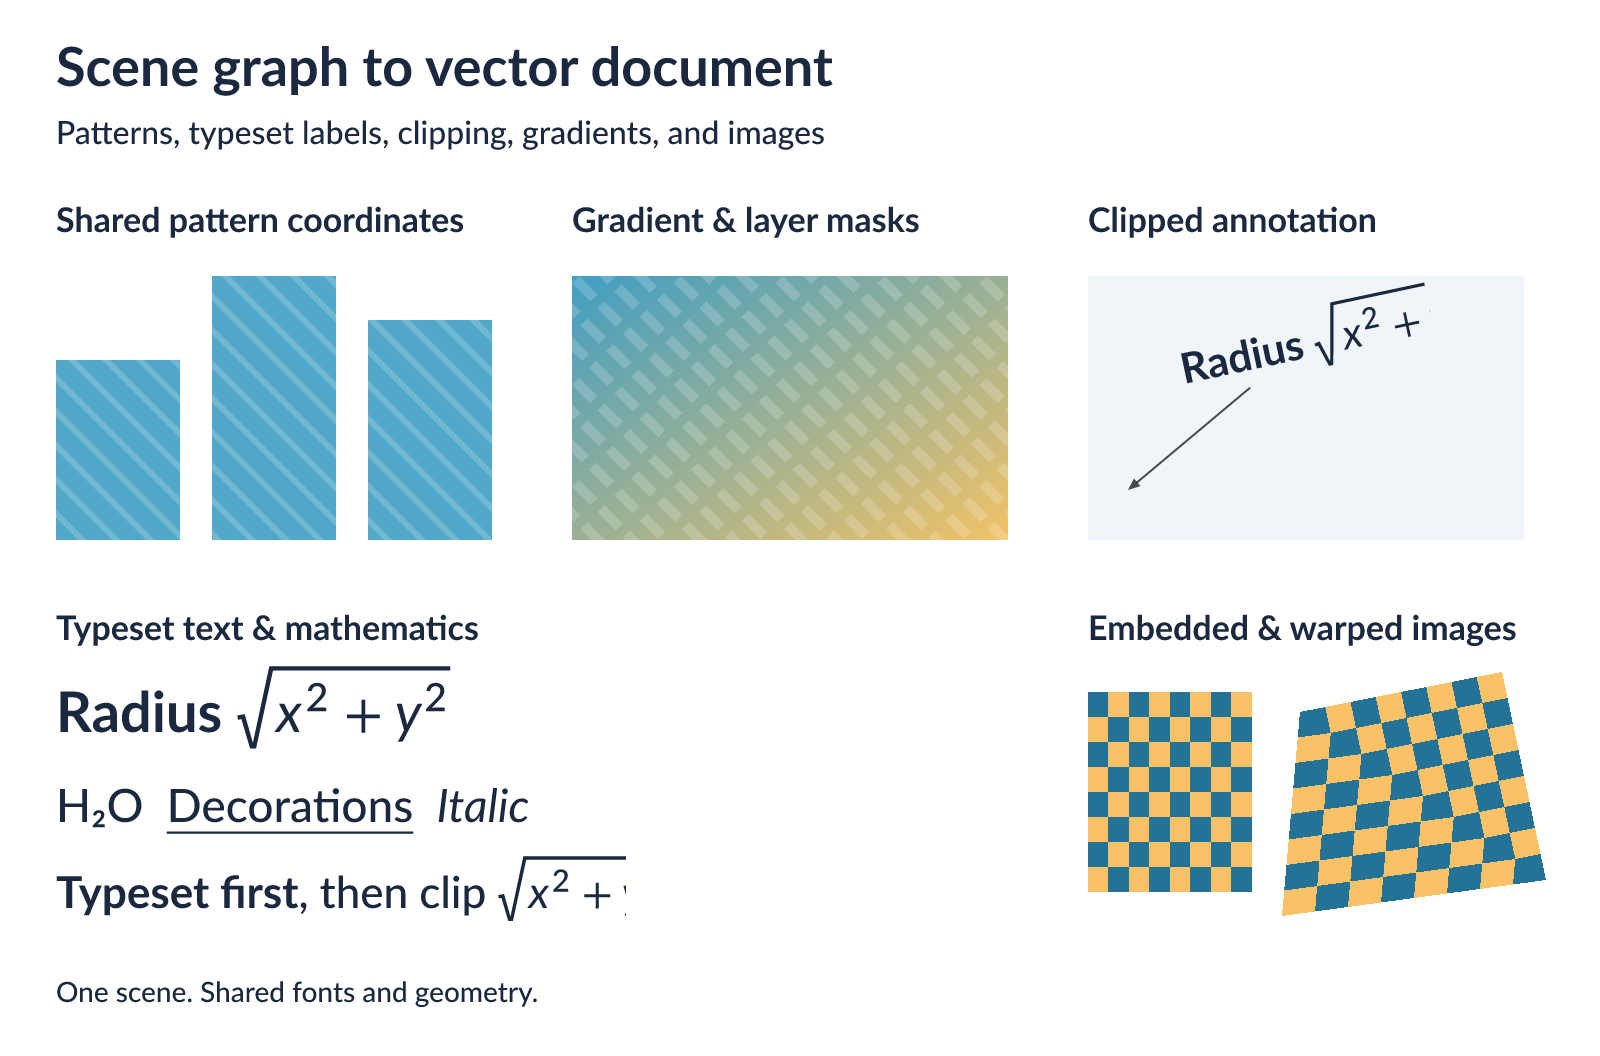
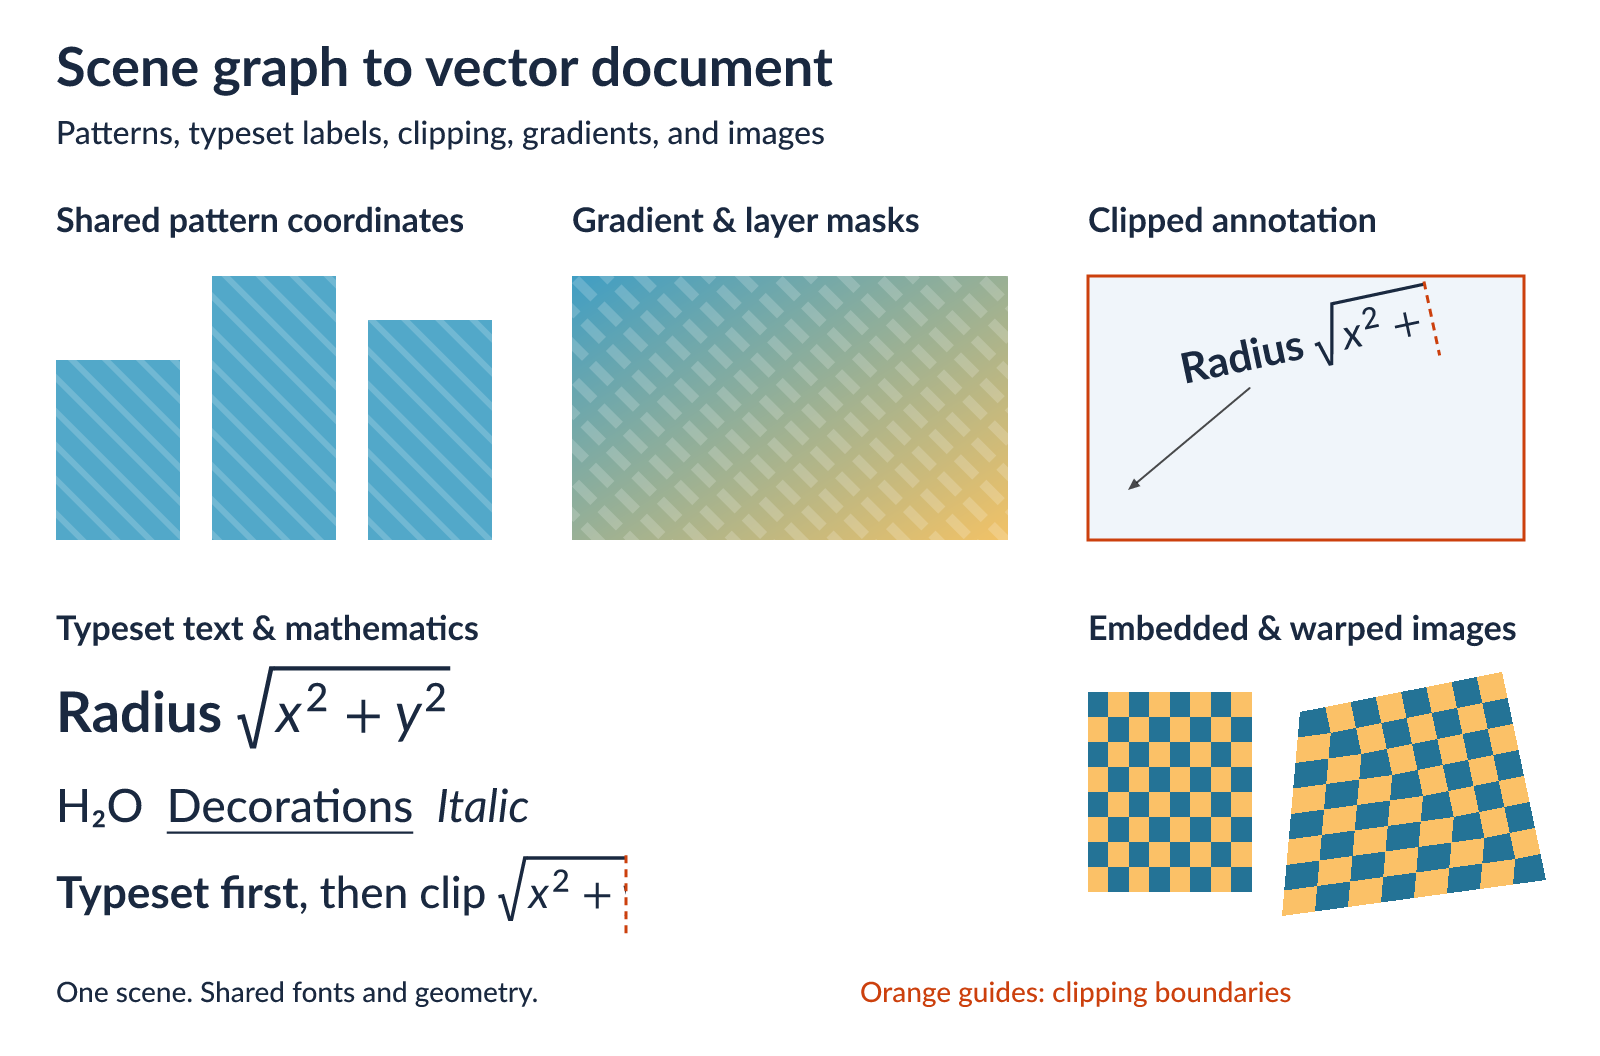
docs(svg): mark clipping boundaries in export gallery

Changed region(s): [[0.6875, 0.25, 0.9688, 0.2812], [0.5312, 0.9375, 0.8125, 0.9688], [0.6875, 0.5, 0.9375, 0.5312]]

diff --git a/tests/render_fixtures/scene.rs b/tests/render_fixtures/scene.rs
@@ -11,12 +11,15 @@ use avenger_scenegraph::{
             StripePatternLayer,
         },
         rect::SceneRectMark,
+        rule::SceneRuleMark,
         text::SceneTextMark,
         warped_image::SceneWarpedImageMark,
     },
     scene_graph::SceneGraph,
 };
 use avenger_text::types::TextSyntaxMode;
+
+const CLIP_GUIDE_COLOR: [f32; 4] = [0.80, 0.25, 0.05, 1.0];
 
 pub fn fonts() -> avenger_text::FontResolutionOptions {
     avenger_text::FontResolutionOptions {
@@ -45,6 +48,30 @@ fn rect(x: f32, y: f32, width: f32, height: f32, color: [f32; 4]) -> SceneRectMa
         width: Some(ScalarOrArray::new_scalar(width)),
         height: Some(ScalarOrArray::new_scalar(height)),
         fill: ScalarOrArray::new_scalar(ColorOrGradient::Color(color)),
+        ..Default::default()
+    }
+}
+
+fn text_clip_boundary(label: [f32; 2], limit: f32, angle: f32, size: f32) -> SceneRuleMark {
+    let (sin, cos) = angle.to_radians().sin_cos();
+    let point = |y: f32| {
+        [
+            label[0] + limit * cos - y * sin,
+            label[1] + limit * sin + y * cos,
+        ]
+    };
+    // A text limit clips only the right edge, in the label's rotated coordinates.
+    let start = point(-1.2 * size);
+    let end = point(0.6 * size);
+    SceneRuleMark {
+        clip: false,
+        x: ScalarOrArray::new_scalar(start[0]),
+        y: ScalarOrArray::new_scalar(start[1]),
+        x2: ScalarOrArray::new_scalar(end[0]),
+        y2: ScalarOrArray::new_scalar(end[1]),
+        stroke: ScalarOrArray::new_scalar(ColorOrGradient::Color(CLIP_GUIDE_COLOR)),
+        stroke_width: ScalarOrArray::new_scalar(1.5),
+        stroke_dash: Some(ScalarOrArray::new_scalar(vec![4.0, 3.0])),
         ..Default::default()
     }
 }
@@ -140,8 +167,10 @@ pub fn gallery() -> SceneGraph {
     let mut annotation = text("*Radius* $sqrt(x^2+y^2)$", 20.0, 107.0, 21.0);
     annotation.dx = ScalarOrArray::new_scalar(28.0);
     annotation.dy = ScalarOrArray::new_scalar(-53.0);
-    annotation.angle = ScalarOrArray::new_scalar(-12.0);
-    annotation.limit = ScalarOrArray::new_scalar(128.0);
+    let annotation_angle = -12.0;
+    let annotation_limit = 128.0;
+    annotation.angle = ScalarOrArray::new_scalar(annotation_angle);
+    annotation.limit = ScalarOrArray::new_scalar(annotation_limit);
     annotation.leader = ScalarOrArray::new_scalar(true);
     annotation.leader_arrow = ScalarOrArray::new_scalar(SceneTextLeaderArrow::Triangle);
     annotation.clip = true;
@@ -157,11 +186,17 @@ pub fn gallery() -> SceneGraph {
             marks: vec![
                 rect(0.0, 0.0, 218.0, 132.0, [0.94, 0.96, 0.98, 1.0]).into(),
                 annotation.into(),
+                text_clip_boundary([48.0, 54.0], annotation_limit, annotation_angle, 21.0).into(),
             ],
             ..Default::default()
         }
         .into(),
     );
+    let mut group_boundary = rect(544.0, 138.0, 218.0, 132.0, [0.0; 4]);
+    group_boundary.clip = false;
+    group_boundary.stroke = ScalarOrArray::new_scalar(ColorOrGradient::Color(CLIP_GUIDE_COLOR));
+    group_boundary.stroke_width = ScalarOrArray::new_scalar(1.5);
+    marks.push(group_boundary.into());
     marks.extend([
         text("*Typeset text & mathematics*", 28.0, 320.0, 17.0).into(),
         text("*Radius* $sqrt(x^2+y^2)$", 28.0, 366.0, 28.0).into(),
@@ -180,8 +215,10 @@ pub fn gallery() -> SceneGraph {
         454.0,
         22.0,
     );
-    limited.limit = ScalarOrArray::new_scalar(285.0);
+    let text_limit = 285.0;
+    limited.limit = ScalarOrArray::new_scalar(text_limit);
     marks.push(limited.into());
+    marks.push(text_clip_boundary([28.0, 454.0], text_limit, 0.0, 22.0).into());
     marks.push(
         SceneImageMark {
             image: ScalarOrArray::new_scalar(SceneImageSource::Inline(checker())),
@@ -212,6 +249,9 @@ pub fn gallery() -> SceneGraph {
         .into(),
     );
     marks.push(text("One scene. Shared fonts and geometry.", 28.0, 501.0, 14.0).into());
+    let mut clip_key = text("Orange guides: clipping boundaries", 430.0, 501.0, 14.0);
+    clip_key.color = ScalarOrArray::new_scalar(ColorOrGradient::Color(CLIP_GUIDE_COLOR));
+    marks.push(clip_key.into());
     SceneGraph {
         width: 800.0,
         height: 528.0,
